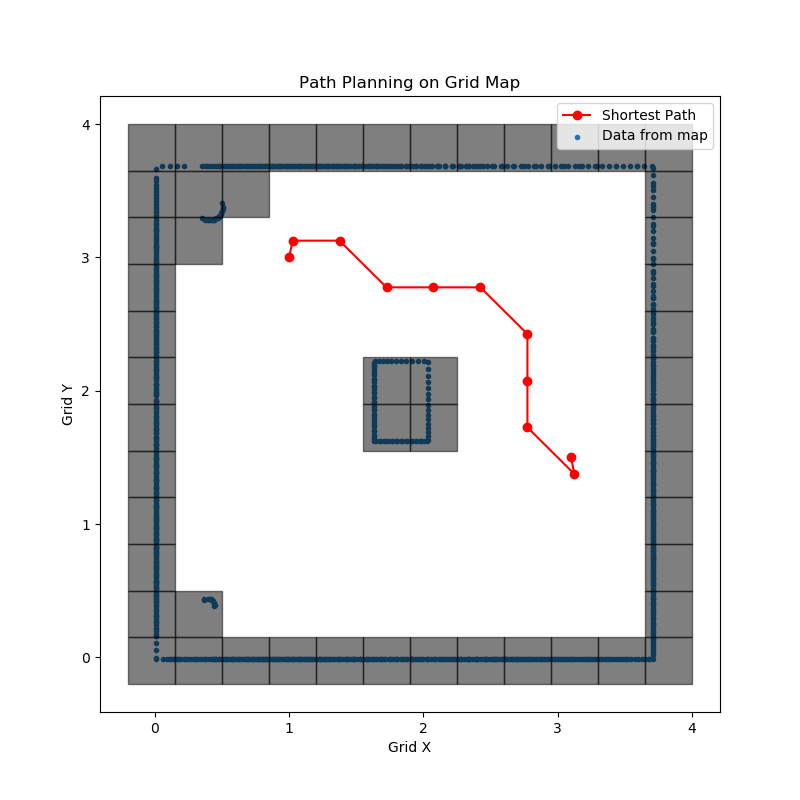
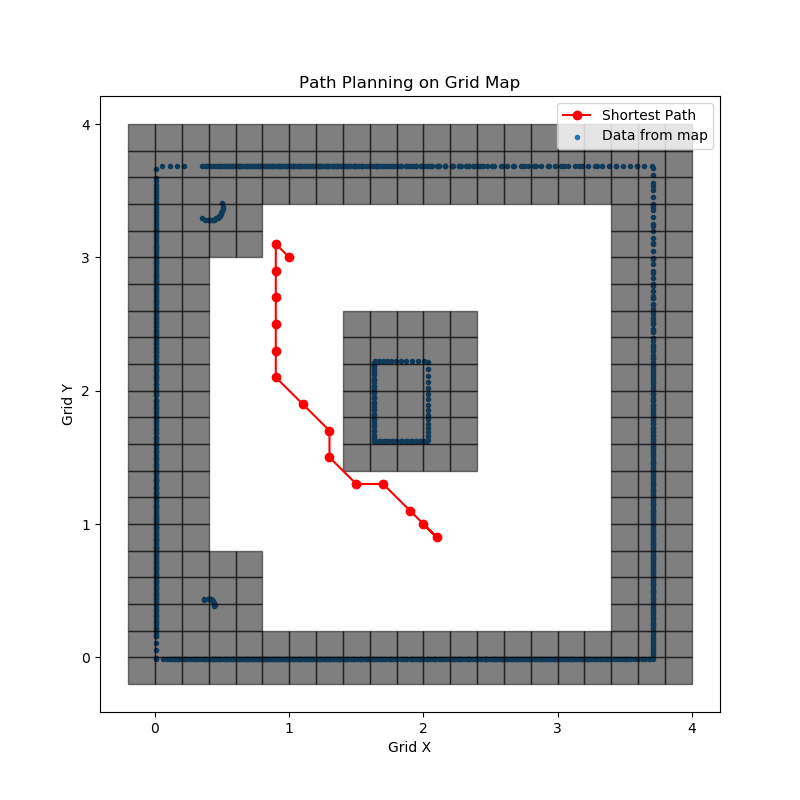
add visualization for dilation

diff --git a/final/follow_with_pose.py b/final/follow_with_pose.py
@@ -30,7 +30,7 @@ class PathPlanner(Node):
         self.current_yaw = None  # To store the yaw angle (optional)
 
         # Grid map metadata
-        self.grid_resolution = 0.35  # Grid resolution in meters
+        self.grid_resolution = 0.2  # Grid resolution in meters
         self.grid_origin = (0.0, 0.0)  # Origin of the grid in map coordinates
 
         # Grid settings
@@ -40,7 +40,7 @@ class PathPlanner(Node):
         self.num_y_cells = int((self.y_max - self.y_min) / self.grid_resolution)
         # Define start and goal positions in map coordinates
         self.start_map = (1, 3)  # Map coordinates (x, y)
-        self.goal_map = (3.1, 1.5)  # Map coordinates (x, y)
+        self.goal_map = (2, 1)  # Map coordinates (x, y)
 
         # Convert map coordinates to grid coordinates
         self.start = self.map_to_grid(self.start_map)
@@ -282,8 +282,12 @@ class PathPlanner(Node):
         # Create a dilated obstacle grid using binary dilation
         # 1 is considered as obstacle and 0 as free space
         dilated_obstacles = binary_dilation(self.grid_map, structure=np.ones((2 * dilation_radius + 1, 2 * dilation_radius + 1)))
+        self.grid_map=dilated_obstacles
         dilated_obstacles = dilated_obstacles.astype(int)
-
+        # plt.figure(figsize=(6,6))
+        # plt.imshow(self.grid_map, cmap='gray_r', origin='lower')
+        # print(self.grid_map)
+        # plt.show()
         # Priority queue (open set) for A* with (f_score, current_position)
         open_set = []
         heapq.heappush(open_set, (0 + heuristic(start, goal), 0, start))
@@ -342,21 +346,35 @@ class PathPlanner(Node):
         plt.scatter(self.all_x_points, self.all_y_points, marker='.', label=f'Data from map')
         # Shade grid cells for obstacles
         for i in range(self.num_x_cells):
+            # for j in range(self.num_y_cells):
+            #     cell_x_min = self.x_min + i * self.grid_resolution
+            #     cell_x_max = cell_x_min + self.grid_resolution
+            #     cell_y_min = self.y_min + j * self.grid_resolution
+            #     cell_y_max = cell_y_min + self.grid_resolution
+
+            #     points_in_cell = ((self.all_x_points >= cell_x_min) & (self.all_x_points < cell_x_max) &
+            #                     (self.all_y_points >= cell_y_min) & (self.all_y_points < cell_y_max))
+
+            #     if np.any(points_in_cell):
+            #         self.grid_map[j, i] = True
+            #         plt.gca().add_patch(
+            #             plt.Rectangle((cell_x_min, cell_y_min), self.grid_resolution, self.grid_resolution,
+            #                         color='black', alpha=0.5)
+            #         )
             for j in range(self.num_y_cells):
-                cell_x_min = self.x_min + i * self.grid_resolution
-                cell_x_max = cell_x_min + self.grid_resolution
-                cell_y_min = self.y_min + j * self.grid_resolution
-                cell_y_max = cell_y_min + self.grid_resolution
-
-                points_in_cell = ((self.all_x_points >= cell_x_min) & (self.all_x_points < cell_x_max) &
-                                (self.all_y_points >= cell_y_min) & (self.all_y_points < cell_y_max))
-
-                if np.any(points_in_cell):
-                    self.grid_map[j, i] = True
+                if self.grid_map[j, i]:  # Check if the cell is occupied
+                    cell_x_min = self.x_min + i * self.grid_resolution
+                    cell_y_min = self.y_min + j * self.grid_resolution
+                    
                     plt.gca().add_patch(
-                        plt.Rectangle((cell_x_min, cell_y_min), self.grid_resolution, self.grid_resolution,
-                                    color='black', alpha=0.5)
+                    plt.Rectangle(
+                        (cell_x_min, cell_y_min),
+                        self.grid_resolution,
+                        self.grid_resolution,
+                        color="black",
+                        alpha=0.5,
                     )
+                )
         # plt.imshow(self.grid_map, origin='lower', cmap='gray_r')
         path_x = [self.start_map[0]] + [self.x_min + p[0] * self.grid_resolution + self.grid_resolution / 2 for p in self.path_grid] + [self.goal_map[0]]
         path_y = [self.start_map[1]] + [self.y_min + p[1] * self.grid_resolution + self.grid_resolution / 2 for p in self.path_grid] + [self.goal_map[1]]
